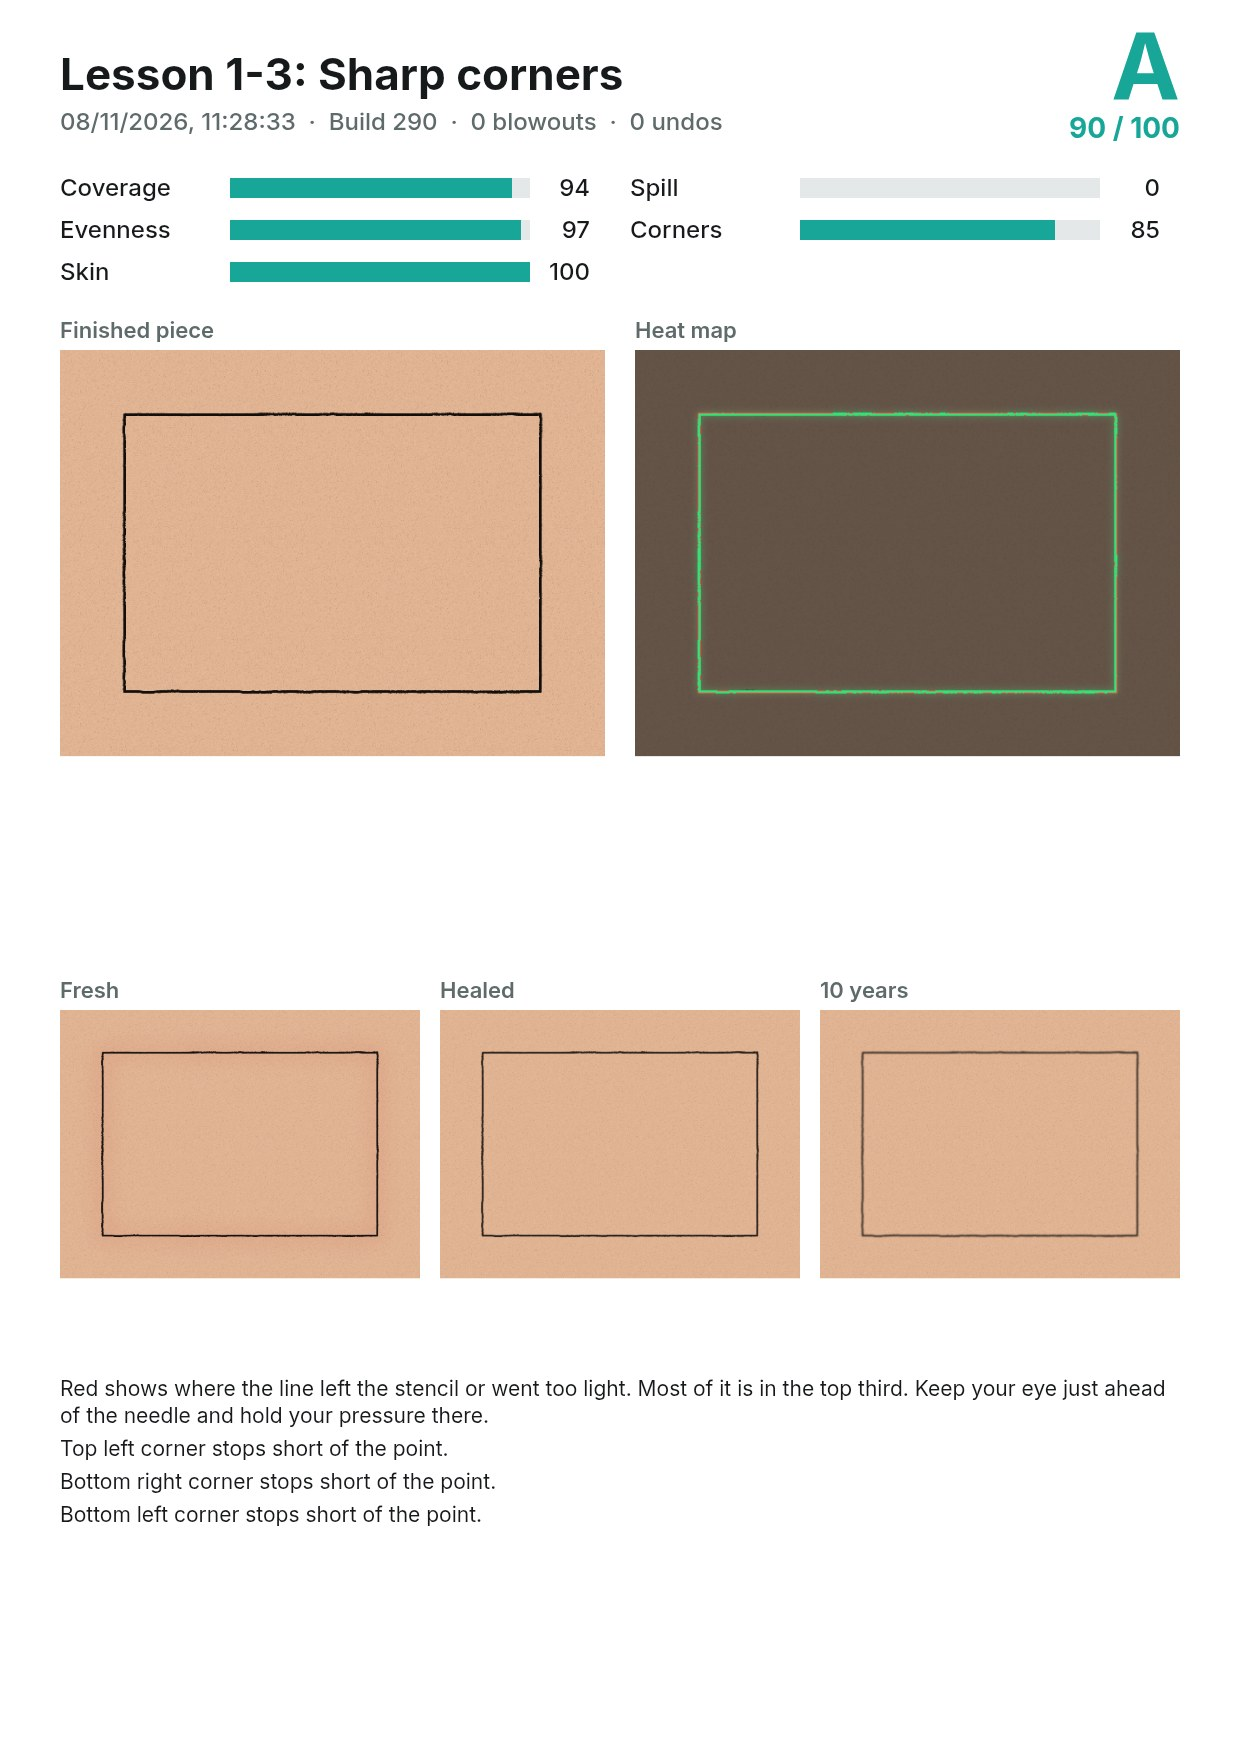
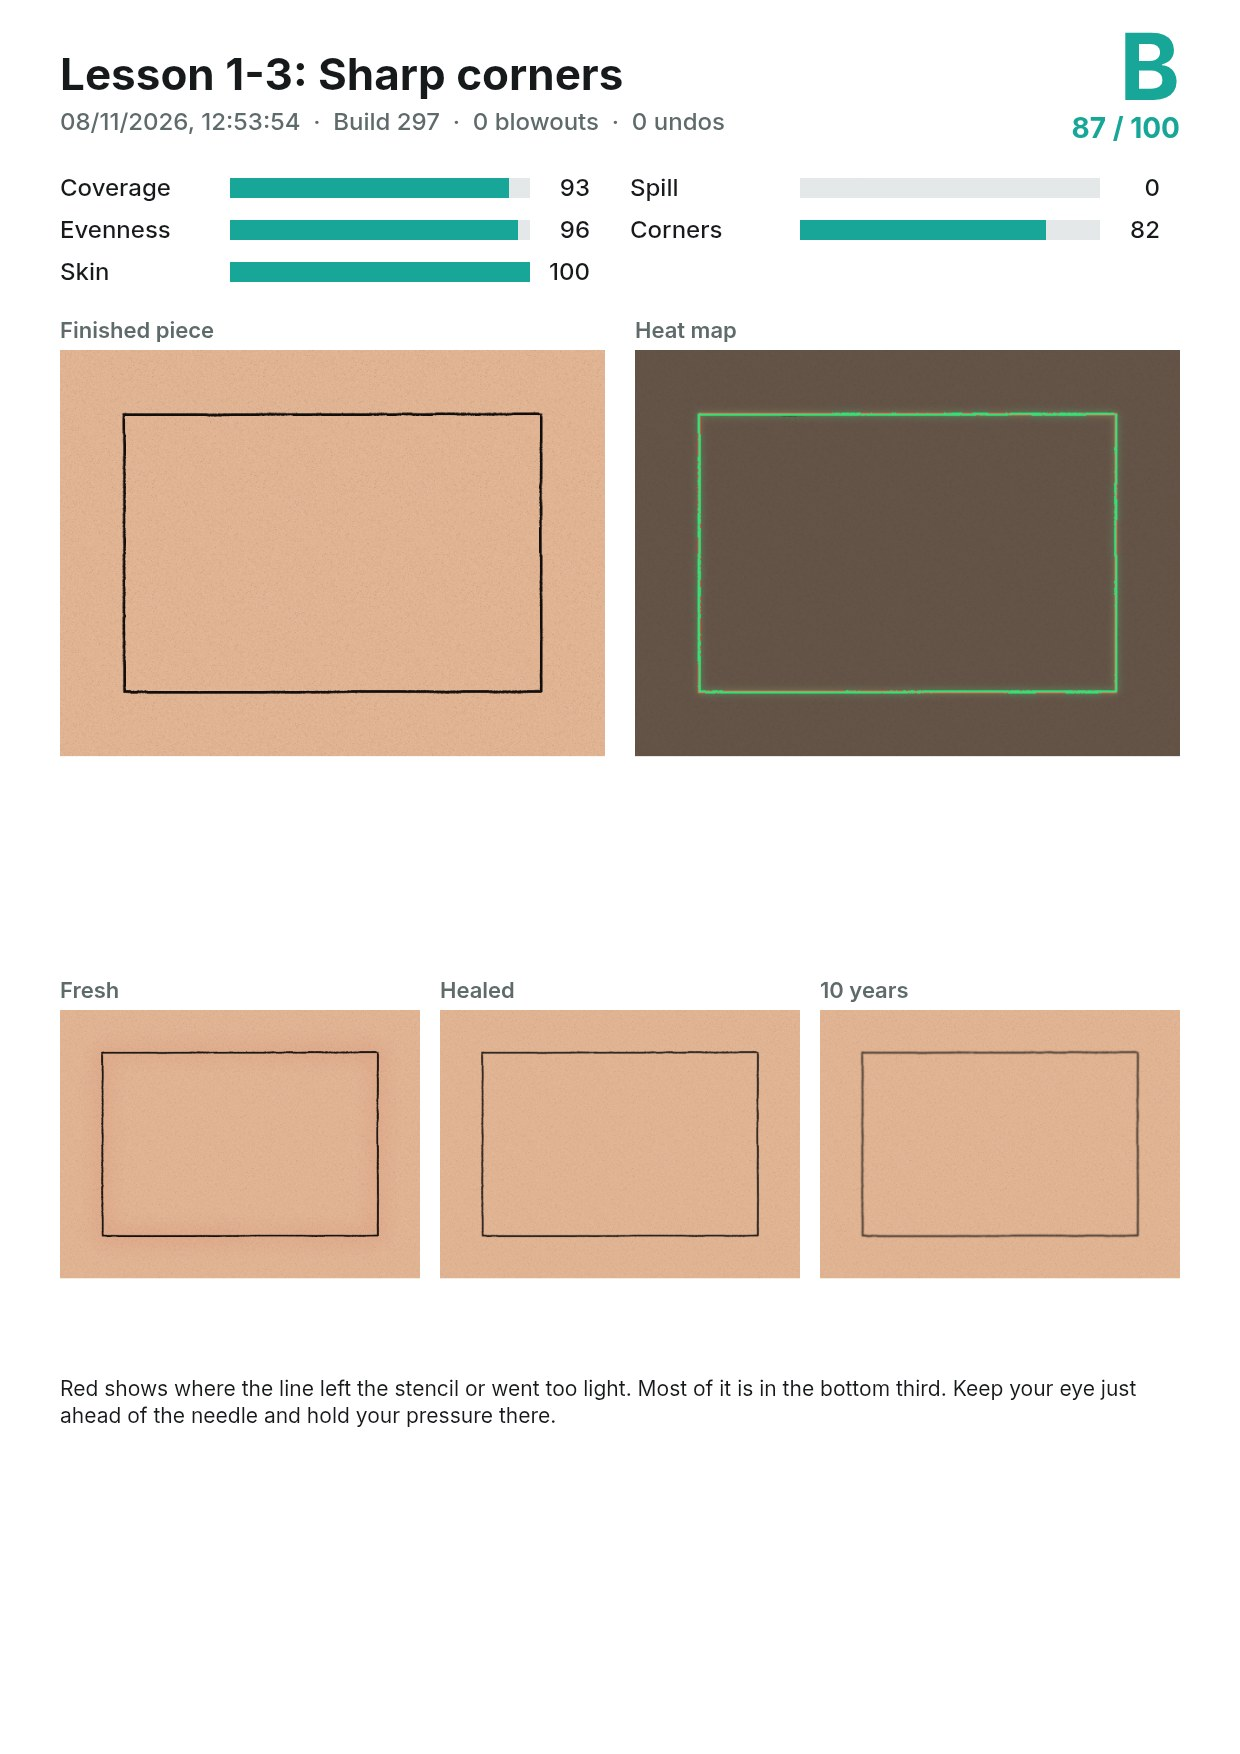
Simulator: Sharp corners corner reduction eased to 25%; Trevor's new Sharp corners attempt replaces the old reference

diff --git a/tattoo.js b/tattoo.js
@@ -432,7 +432,7 @@ const TT_LESSONS = [
         more: 'A rounded corner means you kept moving as you turned. An overlap means you carried on past the point. Going over a corner twice also darkens and widens it, so get it right the first time.' },
       { title: 'Keep it consistent', text: 'All four sides should look like one line: the same darkness and the same width. Keep your speed and pressure the same on every side, and reload before the ink runs low.' },
       { title: 'Your grade', text: 'Leave the skin to settle for about a minute, then press Done. Grade C (70) or higher unlocks the next lesson, and more than 1 blowout is still an instant fail.',
-        more: 'Your score is your line score, the same as the last lesson, then reduced for poor corners, by up to 40% if all four are bad.' }
+        more: 'Your score is your line score, the same as the last lesson, then reduced for poor corners, by up to 25% if all four are bad.' }
     ] },
     { id: '1-4', title: 'Curves', sum: 'An S that runs on into a circle, with the same weight of line all the way. Grade C or higher moves you on.', task: 'l-curve', steps: [
       { title: 'An S that becomes a circle', pic: { needles: ['5RL'] }, text: 'Same 5RL. This time the line starts as an S, and its second curl carries on around to form a circle that does not quite close. No corners to hide in: just flowing curves.' },
@@ -578,8 +578,8 @@ const ttBusy = (label, frac) => { let o = document.getElementById('tt-busy'); if
 // Reference attempts that ship with the app: { name, note, stats, img } where stats is the copied stats text and img the
 // report page. The PDF text is only read from where the text starts, as the picture before it can hold any bytes.
 const TT_REF_STATS = [
+  { name: "Trevor", note: "Sharp corners \u00b7 B 87", img: 'img/ref/trevor-1-3.jpg', stats: "{\"inkforge_stats\":1,\"artist\":\"Trevor Schuster\",\"build\":297,\"lesson\":\"1-3\",\"task\":\"l-rect\",\"when\":\"2026-11-08T10:53:41.074Z\",\"grade\":\"B\",\"total\":87,\"parts\":{\"score\":85,\"coverage\":93,\"spill\":0,\"evenness\":96,\"corners\":82},\"skin\":100,\"traumaMax\":0.06,\"traumaAvg\":0.03,\"blowouts\":0,\"blowSpots\":[],\"maxStrokes\":8,\"extraStrokes\":0,\"undos\":0,\"lasers\":0,\"penalty\":0,\"dips\":2,\"needleSeconds\":97.7,\"pauses\":5,\"pauseSeconds\":84,\"zoomHist\":[0,0,0,82922,14779,0,0],\"passes\":null,\"linePasses\":{\"mean\":31.9,\"sd\":7.4,\"untouched\":0,\"p10\":25,\"median\":30,\"p90\":40,\"max\":85},\"tryingSettingsOf\":null,\"settingsFlags\":[],\"settingsUnsaved\":false,\"savedSettings\":{\"cal\":{\"penOnly\":true,\"pMin\":0.2,\"pMax\":0.866,\"curve\":-75,\"hand\":4.1,\"fade\":0.35,\"flow\":2,\"tilt0\":35,\"profile\":\"slow\",\"voltOff\":0,\"blow\":1.2,\"tough\":1.25,\"t3\":1,\"t4\":1,\"b3\":1,\"t5\":1},\"feel\":{},\"look\":{\"thin\":45,\"tex\":100}},\"needles\":{\"5RL\":{\"seconds\":97.7,\"travelMm\":710,\"mmPerSec\":7.3,\"speedAvg\":7.3,\"speedSd\":2,\"depthAvg\":0.682,\"depthSd\":0.107,\"strokes\":6,\"turnPerMm\":0.053,\"sameWay30mm\":0.112,\"cw\":17,\"ccw\":20,\"reversalsPer10mm\":0.014,\"dipReversalsPer10mm\":0,\"turnFlipsPer10mm\":0.634,\"hist\":{\"speed\":[91124,6469,96,12,0,0,0,0,0],\"gap\":[8661,86122,2762,122,33,0,0,0],\"depth\":[0,2501,89,300,1454,8195,30660,54502,0,0],\"pressure\":[3522,4628,12138,20534,31132,25746,0,0,0,0],\"tilt\":[0,7154,90547,0,0],\"radius\":[1,2,23,63,114,57],\"run\":[0,0,0,0,0,1],\"stroke\":[0,0,0,0,6,0,0,0]}}},\"edges\":{\"speed\":[10,25,50,85,110,150,200,300],\"gap\":[0.05,0.1,0.2,0.4,0.8,1.3,2.2],\"depth\":[0.1,0.2,0.3,0.4,0.5,0.6,0.7,0.8,0.9],\"pressure\":[0.1,0.2,0.3,0.4,0.5,0.6,0.7,0.8,0.9],\"tilt\":[15,30,45,60],\"zoom\":[1,1.5,2,3,5,8],\"radius\":[1,2,4,8,16],\"run\":[2,5,10,20,40],\"stroke\":[2,5,10,20,50,100,200]},\"settings\":{\"cal\":{\"penOnly\":true,\"pMin\":0.2,\"pMax\":0.866,\"curve\":-75,\"hand\":4.1,\"fade\":0.35,\"flow\":2,\"tilt0\":35,\"profile\":\"slow\",\"voltOff\":0,\"blow\":1.2,\"tough\":1.25,\"t3\":1,\"t4\":1,\"b3\":1,\"t5\":1},\"look\":{\"thin\":0.45,\"tex\":1},\"stretch\":75,\"skin\":\"#e2b493\",\"feel\":{}},\"device\":{\"ua\":\"Mozilla/5.0 (Linux; Android 10; K) AppleWebKit/537.36 (KHTML, like Gecko) Chrome/150.0.0.0 Safari/537.36\",\"screen\":[1317,823],\"dpr\":1.75}}" },
   { name: "Trevor", note: "Your first line \u00b7 A 92", img: 'img/ref/trevor-1-2.jpg', stats: "{\"inkforge_stats\":1,\"artist\":\"Trevor Schuster\",\"build\":296,\"lesson\":\"1-2\",\"task\":\"l-first\",\"when\":\"2026-11-08T10:20:58.317Z\",\"grade\":\"A\",\"total\":92,\"parts\":{\"score\":91,\"coverage\":91,\"spill\":0,\"evenness\":97},\"skin\":100,\"traumaMax\":0.05,\"traumaAvg\":0.03,\"blowouts\":0,\"blowSpots\":[],\"maxStrokes\":2,\"extraStrokes\":0,\"undos\":0,\"lasers\":0,\"penalty\":0,\"dips\":1,\"needleSeconds\":21.5,\"pauses\":1,\"pauseSeconds\":3,\"zoomHist\":[0,0,15565,5952,0,0,0],\"passes\":null,\"linePasses\":{\"mean\":22.9,\"sd\":4.8,\"untouched\":0,\"p10\":18,\"median\":22,\"p90\":27,\"max\":42},\"tryingSettingsOf\":null,\"settingsFlags\":[],\"settingsUnsaved\":false,\"savedSettings\":{\"cal\":{\"penOnly\":true,\"pMin\":0.2,\"pMax\":0.866,\"curve\":-75,\"hand\":4.1,\"fade\":0.35,\"flow\":2,\"tilt0\":35,\"profile\":\"slow\",\"voltOff\":0,\"blow\":1.2,\"tough\":1.25,\"t3\":1,\"t4\":1,\"b3\":1,\"t5\":1},\"feel\":{},\"look\":{\"thin\":45,\"tex\":100}},\"needles\":{\"5RL\":{\"seconds\":21.5,\"travelMm\":149,\"mmPerSec\":6.9,\"speedAvg\":6.9,\"speedSd\":2.3,\"depthAvg\":0.688,\"depthSd\":0.137,\"strokes\":2,\"turnPerMm\":0.038,\"sameWay30mm\":0,\"cw\":3,\"ccw\":3,\"reversalsPer10mm\":0,\"dipReversalsPer10mm\":0,\"turnFlipsPer10mm\":0.336,\"hist\":{\"speed\":[18742,2764,11,0,0,0,0,0,0],\"gap\":[4811,14646,2036,25,0,0,0,0],\"depth\":[0,872,56,134,155,389,6244,13668,0,0],\"pressure\":[1194,111,1119,3909,6557,8628,0,0,0,0],\"tilt\":[0,0,21517,0,0],\"radius\":[0,0,3,11,24,10],\"stroke\":[0,0,0,0,2,0,0,0]}}},\"edges\":{\"speed\":[10,25,50,85,110,150,200,300],\"gap\":[0.05,0.1,0.2,0.4,0.8,1.3,2.2],\"depth\":[0.1,0.2,0.3,0.4,0.5,0.6,0.7,0.8,0.9],\"pressure\":[0.1,0.2,0.3,0.4,0.5,0.6,0.7,0.8,0.9],\"tilt\":[15,30,45,60],\"zoom\":[1,1.5,2,3,5,8],\"radius\":[1,2,4,8,16],\"run\":[2,5,10,20,40],\"stroke\":[2,5,10,20,50,100,200]},\"settings\":{\"cal\":{\"penOnly\":true,\"pMin\":0.2,\"pMax\":0.866,\"curve\":-75,\"hand\":4.1,\"fade\":0.35,\"flow\":2,\"tilt0\":35,\"profile\":\"slow\",\"voltOff\":0,\"blow\":1.2,\"tough\":1.25,\"t3\":1,\"t4\":1,\"b3\":1,\"t5\":1},\"look\":{\"thin\":0.45,\"tex\":1},\"stretch\":75,\"skin\":\"#e2b493\",\"feel\":{}},\"device\":{\"ua\":\"Mozilla/5.0 (Linux; Android 10; K) AppleWebKit/537.36 (KHTML, like Gecko) Chrome/150.0.0.0 Safari/537.36\",\"screen\":[1317,823],\"dpr\":1.75}}" },
-  { name: "Trevor", note: "Sharp corners \u00b7 A 90", img: 'img/ref/trevor-1-3.jpg', stats: "{\"inkforge_stats\":1,\"artist\":\"Trevor Schuster\",\"build\":290,\"lesson\":\"1-3\",\"task\":\"l-rect\",\"when\":\"2026-11-08T09:28:10.916Z\",\"grade\":\"A\",\"total\":90,\"parts\":{\"score\":88,\"coverage\":94,\"spill\":0,\"evenness\":97,\"corners\":85},\"skin\":100,\"traumaMax\":0.14,\"traumaAvg\":0.05,\"blowouts\":0,\"blowSpots\":[],\"undos\":0,\"lasers\":0,\"penalty\":0,\"dips\":1,\"needleSeconds\":67.2,\"pauses\":9,\"pauseSeconds\":38,\"zoomHist\":[0,0,0,0,56330,10862,0],\"passes\":null,\"tryingSettingsOf\":null,\"settingsFlags\":[],\"settingsUnsaved\":false,\"savedSettings\":{\"cal\":{\"penOnly\":true,\"pMin\":0.2,\"pMax\":0.866,\"curve\":-75,\"hand\":4.1,\"fade\":0.35,\"flow\":2,\"tilt0\":35,\"profile\":\"slow\",\"voltOff\":0,\"blow\":1.2,\"tough\":1.25,\"t3\":1,\"t4\":1,\"b3\":1,\"t5\":1},\"feel\":{},\"look\":{\"thin\":45,\"tex\":100}},\"needles\":{\"5RL\":{\"seconds\":67.2,\"travelMm\":888,\"mmPerSec\":13.2,\"speedAvg\":13.3,\"speedSd\":3.9,\"depthAvg\":0.723,\"depthSd\":0.141,\"strokes\":13,\"turnPerMm\":0.125,\"sameWay30mm\":0.028,\"cw\":56,\"ccw\":55,\"reversalsPer10mm\":0,\"dipReversalsPer10mm\":0,\"turnFlipsPer10mm\":1.205,\"hist\":{\"speed\":[11197,55539,423,33,0,0,0,0,0],\"gap\":[812,13845,50708,1760,67,0,0,0],\"depth\":[0,2673,146,422,931,1620,6173,44022,11205,0],\"pressure\":[3684,1157,1781,4489,8866,23149,21635,2431,0,0],\"tilt\":[0,0,67192,0,0],\"radius\":[0,4,100,265,220,121],\"stroke\":[0,0,2,7,4,0,0,0]}}},\"edges\":{\"speed\":[10,25,50,85,110,150,200,300],\"gap\":[0.05,0.1,0.2,0.4,0.8,1.3,2.2],\"depth\":[0.1,0.2,0.3,0.4,0.5,0.6,0.7,0.8,0.9],\"pressure\":[0.1,0.2,0.3,0.4,0.5,0.6,0.7,0.8,0.9],\"tilt\":[15,30,45,60],\"zoom\":[1,1.5,2,3,5,8],\"radius\":[1,2,4,8,16],\"run\":[2,5,10,20,40],\"stroke\":[2,5,10,20,50,100,200]},\"settings\":{\"cal\":{\"penOnly\":true,\"pMin\":0.2,\"pMax\":0.866,\"curve\":-75,\"hand\":4.1,\"fade\":0.35,\"flow\":2,\"tilt0\":35,\"profile\":\"slow\",\"voltOff\":0,\"blow\":1.2,\"tough\":1.25,\"t3\":1,\"t4\":1,\"b3\":1,\"t5\":1},\"look\":{\"thin\":0.45,\"tex\":1},\"stretch\":75,\"skin\":\"#e2b493\",\"feel\":{}},\"device\":{\"ua\":\"Mozilla/5.0 (Linux; Android 10; K) AppleWebKit/537.36 (KHTML, like Gecko) Chrome/150.0.0.0 Safari/537.36\",\"screen\":[1317,823],\"dpr\":1.75}}" },
 ];
 const ttStatsParse = (txt) => { try { const s = JSON.parse(String(txt).trim()); return s?.inkforge_stats ? s : null; } catch { const m = String(txt).match(/\{"inkforge_stats"[\s\S]*\}/); if (!m) return null; try { return JSON.parse(m[0]); } catch { return null; } } };
 // Our PDFs: stats are plain text lines on the later pages, the report page is a JPEG.
@@ -3003,7 +3003,7 @@ TT.open = async (el, id) => {
     if (T.pack) return packScore(T.pack);
     if (T.geom) { const ln = lineScore(T.path, T.core, T.covEase), cr = cornerScore(T.corners), wt = weightScore(T.geom, T.joints); return { ...ln, score: Math.round(ln.score * (0.8 + 0.2 * cr / 100) * (0.9 + 0.1 * wt / 100)), corners: cr, weight: wt }; }
     if (T.arcs) { const ln = lineScore(T.path, T.core, T.covEase), wt = weightScore(T.arcs.map(a => ['a', ...a])); return { ...ln, score: Math.round(ln.score * (0.7 + 0.3 * wt / 100)), weight: wt }; }
-    if (T.corners) { const ln = lineScore(T.path, T.core, T.covEase), cr = cornerScore(T.corners); return { ...ln, score: Math.round(ln.score * (0.6 + 0.4 * cr / 100)), corners: cr }; }
+    if (T.corners) { const ln = lineScore(T.path, T.core, T.covEase), cr = cornerScore(T.corners); return { ...ln, score: Math.round(ln.score * (0.75 + 0.25 * cr / 100)), corners: cr }; }
     if (T.kind === 'line') return lineScore(T.path, T.core, T.covEase);
     if (T.kind === 'grad') {   // judged on its shape (scaled to your own darkest) and on getting reasonably dark
       const { x0, y0, x1, y1 } = boxIdx(T.box), cs = [], ts = [];

diff --git a/sw.js b/sw.js
@@ -1,5 +1,5 @@
 /* Offline cache for the app shell. Bump VERSION whenever shipped files change. */
-const VERSION = 'inkforge-v297';
+const VERSION = 'inkforge-v298';
 const SHELL = ['./', 'index.html', 'app.css', 'app.js', 'reel.js', 'design.js', 'qr.js', 'forms.js', 'tour.js', 'tattoo.js', 'icon.svg', 'manifest.webmanifest',
   'lib/sqlite3.js', 'lib/sqlite3.wasm', 'lib/db-worker.js', 'lib/stencil-worker.js', 'lib/clipper.js', 'img/pain-chart.png', 'quote.html'];
 

diff --git a/app.js b/app.js
@@ -1,6 +1,6 @@
 'use strict';
 /* InkForge app shell: data layer client, migrations, router, tooltips, backup. */
-const APP_BUILD = 297;   // the build number shown around the app; bump it with sw.js
+const APP_BUILD = 298;   // the build number shown around the app; bump it with sw.js
 
 /* ---------- Database (talks to lib/db-worker.js) ---------- */
 const DB = (() => {
